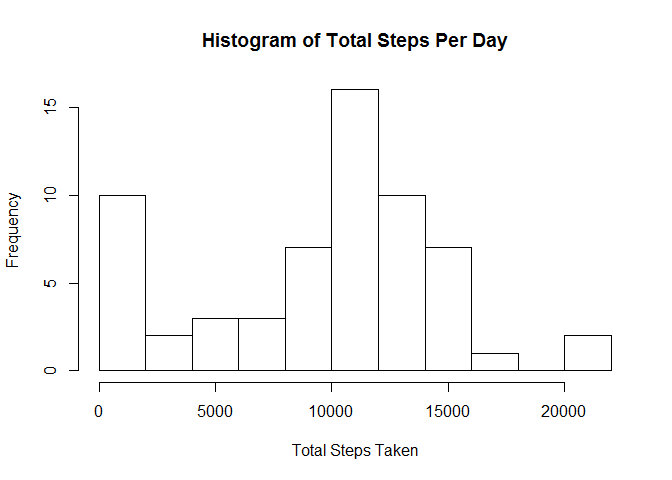
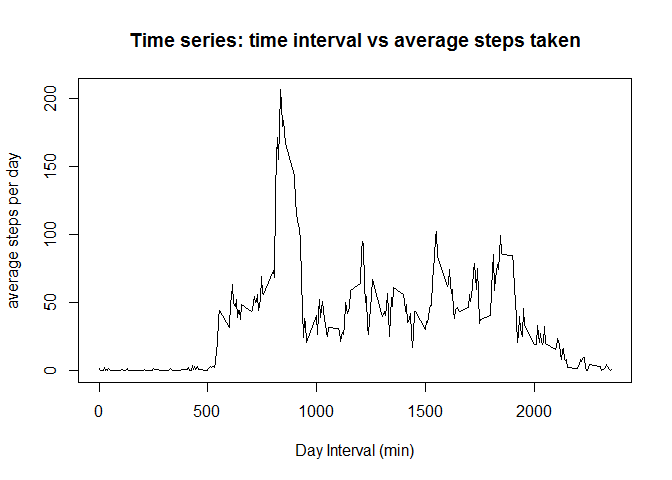
deleted some unnecessary code

diff --git a/PA1_template.html b/PA1_template.html
@@ -80,10 +80,6 @@ head(a)</code></pre>
 ##  $ steps   : int  NA NA NA NA NA NA NA NA NA NA ...
 ##  $ date    : Factor w/ 61 levels &quot;2012-10-01&quot;,&quot;2012-10-02&quot;,..: 1 1 1 1 1 1 1 1 1 1 ...
 ##  $ interval: int  0 5 10 15 20 25 30 35 40 45 ...</code></pre>
-<p>Then split the data frame into convenient variables representing each name</p>
-<pre class="r"><code>steps &lt;- a$steps
-dates &lt;- a$date
-interval &lt;- a$interval</code></pre>
 </div>
 <div id="what-is-mean-total-number-of-steps-taken-per-day" class="section level2">
 <h2>What is mean total number of steps taken per day?</h2>

diff --git a/PA1_template.md b/PA1_template.md
@@ -30,14 +30,6 @@ str(a)
 ##  $ interval: int  0 5 10 15 20 25 30 35 40 45 ...
 ```
 
-Then split the data frame into convenient variables representing each name
-
-
-```r
-steps <- a$steps
-dates <- a$date
-interval <- a$interval
-```
 
 ## What is mean total number of steps taken per day?
 First determine the total number of steps per day; placed in a variable sumday
@@ -70,7 +62,7 @@ sumday <- summarise(timedat, totalsteps = sum(steps, na.rm=TRUE))
 hist(sumday$totalsteps, breaks = 9, main = "Histogram of Total Steps Per Day", xlab = "Total Steps Taken")
 ```
 
-![](PA1_template_files/figure-html/unnamed-chunk-3-1.png) 
+![](PA1_template_files/figure-html/unnamed-chunk-2-1.png) 
 
 ```r
 meantot <- mean(sumday$totalsteps)
@@ -90,7 +82,7 @@ intday <- group_by(a, interval) %>% summarise(avgsteps = mean(steps, na.rm=TRUE)
 plot(intday$interval, intday$avgsteps, type="l", main="Time series: time interval vs average steps taken", xlab = "Day Interval (min)", ylab="average steps per day")
 ```
 
-![](PA1_template_files/figure-html/unnamed-chunk-4-1.png) 
+![](PA1_template_files/figure-html/unnamed-chunk-3-1.png) 
 
 ```r
 maxint <- intday$interval[which(intday$avgsteps == max(intday$avgsteps))]
@@ -113,7 +105,7 @@ totalstep <- group_by(act, date) %>% summarise(totalsteps = sum(steps))
 hist(totalstep$totalsteps, breaks = 9, main = "Histogram of Total Steps Per Day (Imputed data)", xlab = "Total Steps Taken")
 ```
 
-![](PA1_template_files/figure-html/unnamed-chunk-5-1.png) 
+![](PA1_template_files/figure-html/unnamed-chunk-4-1.png) 
 
 ```r
 options(scipen=999)
@@ -170,6 +162,6 @@ activityplot <- ggplot(data = daytypeact, aes(interval, avgsteps)) + geom_line(s
 print(activityplot)
 ```
 
-![](PA1_template_files/figure-html/unnamed-chunk-6-1.png) 
+![](PA1_template_files/figure-html/unnamed-chunk-5-1.png) 
 
 There seems to be more activity around the 800-900 interval on weekdays, although the activity on weekends seems to be higher throughout the day. This may reflect the energy people must spend walking to work on weekdays vs going out on weekends.
